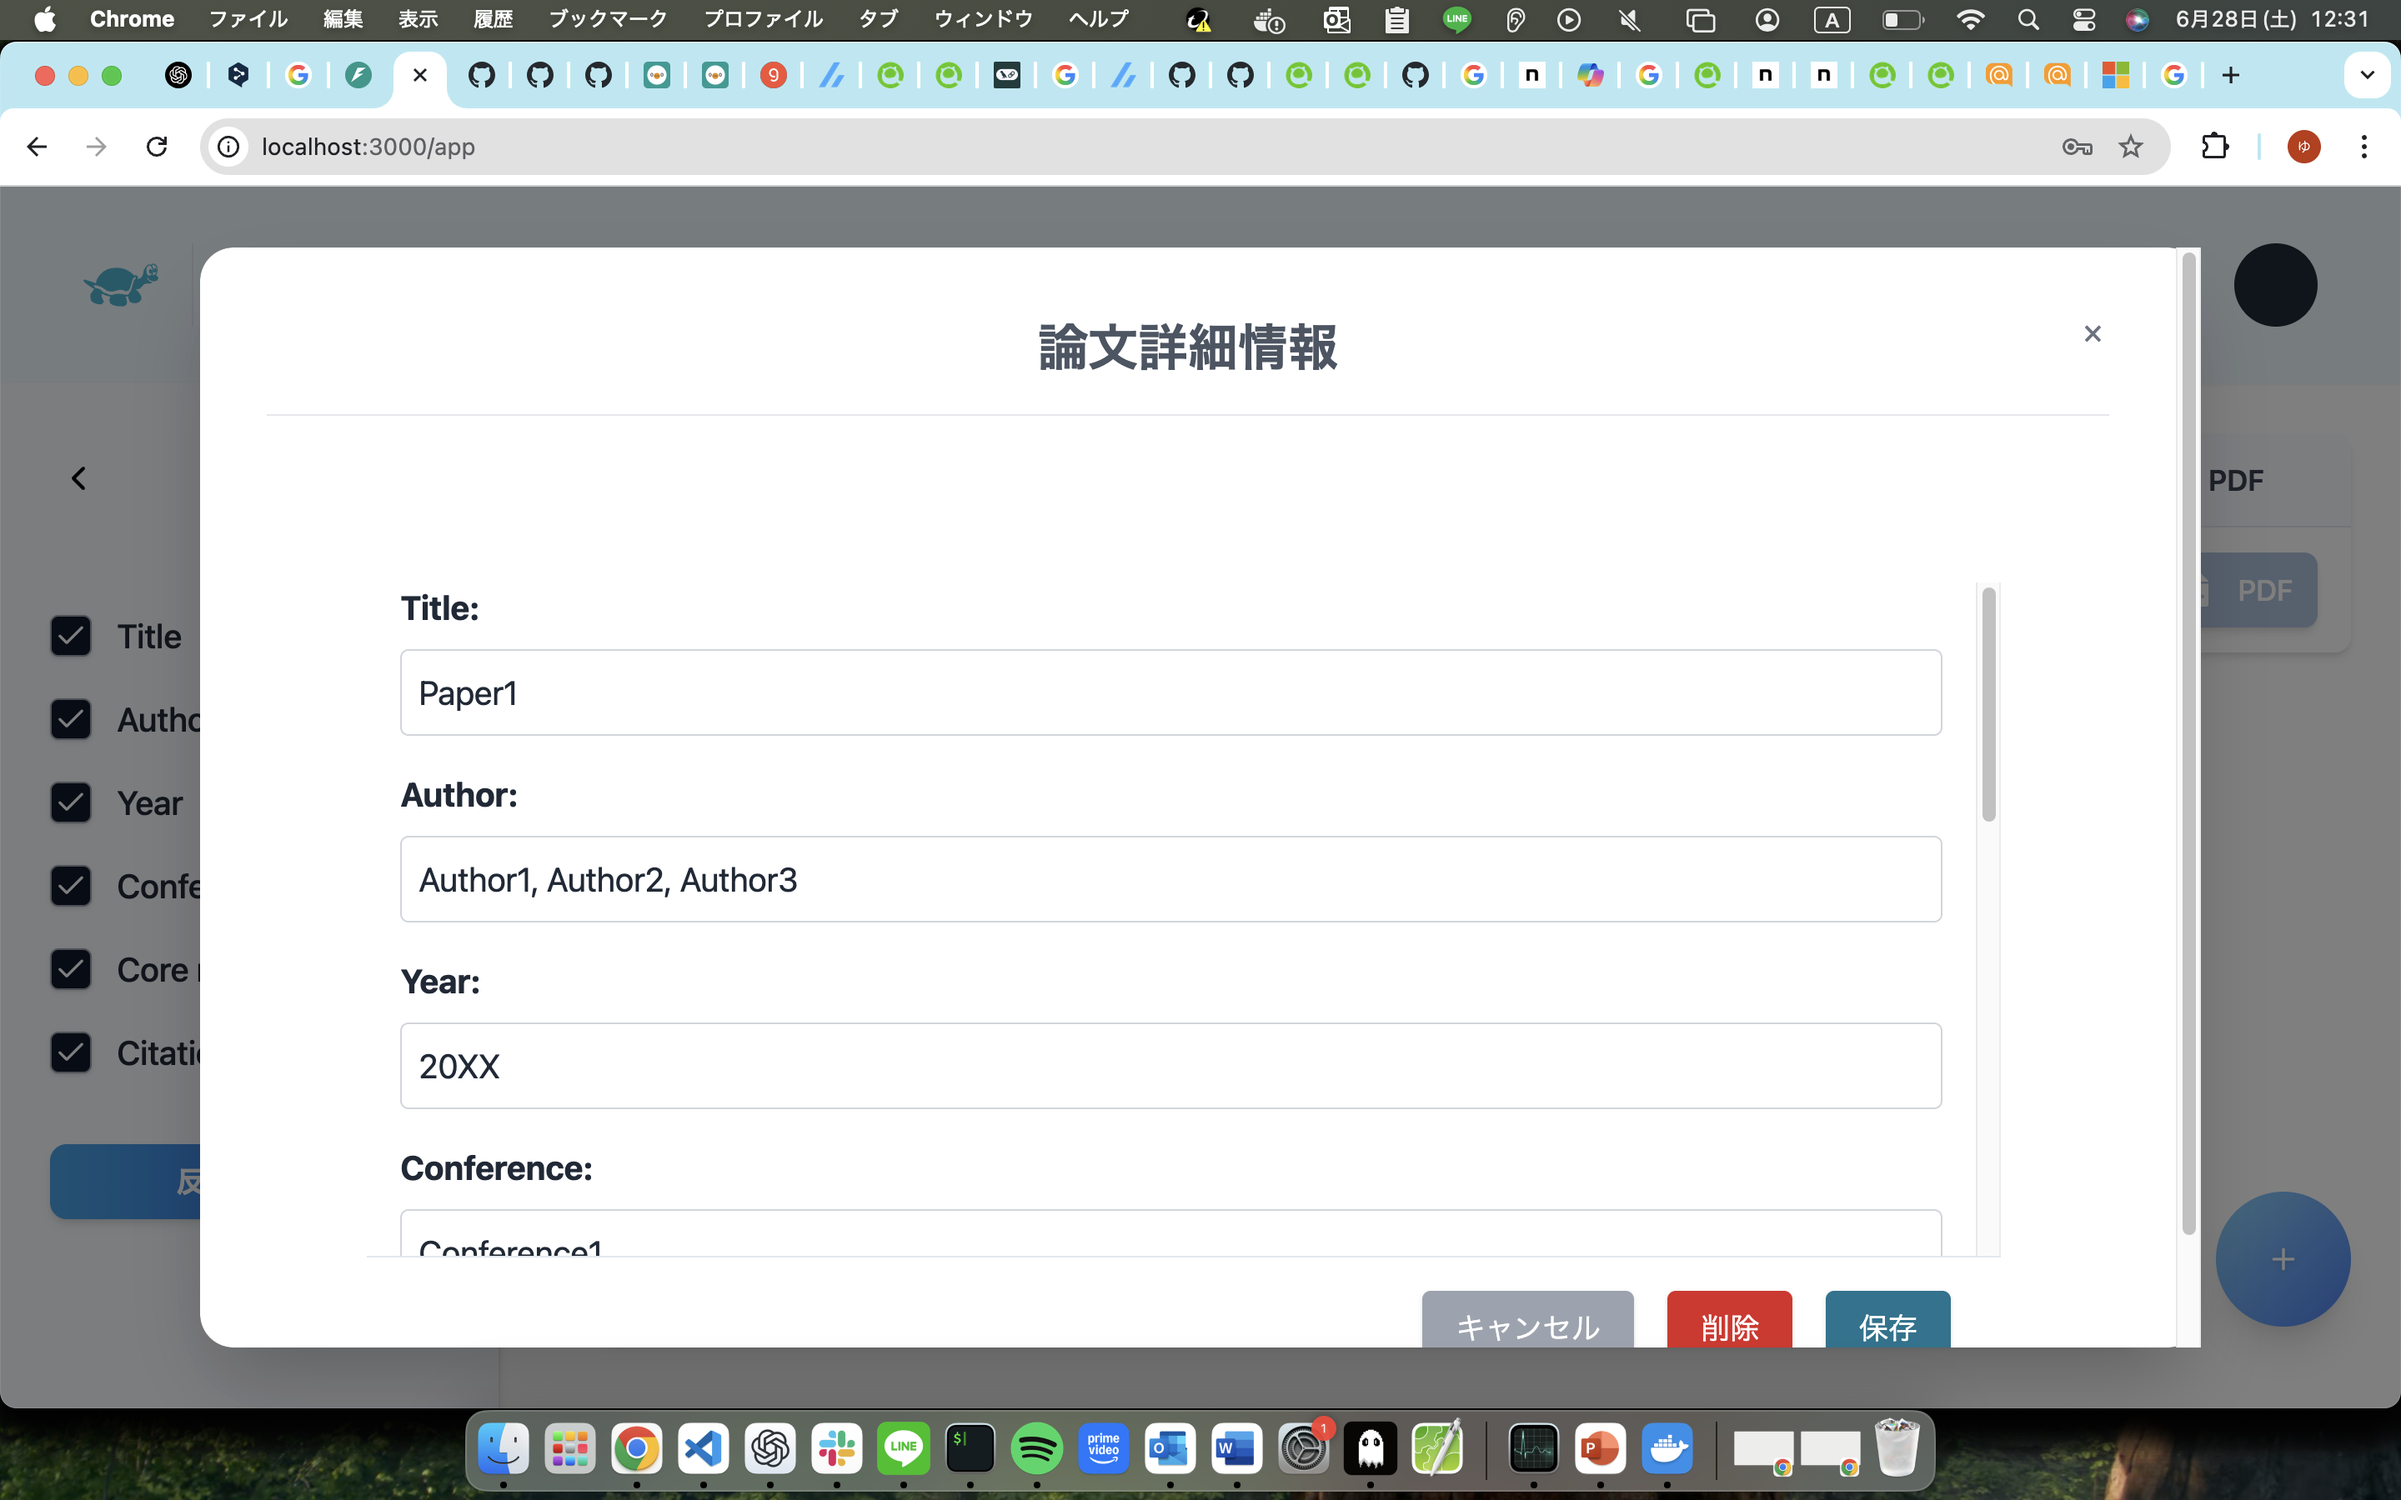
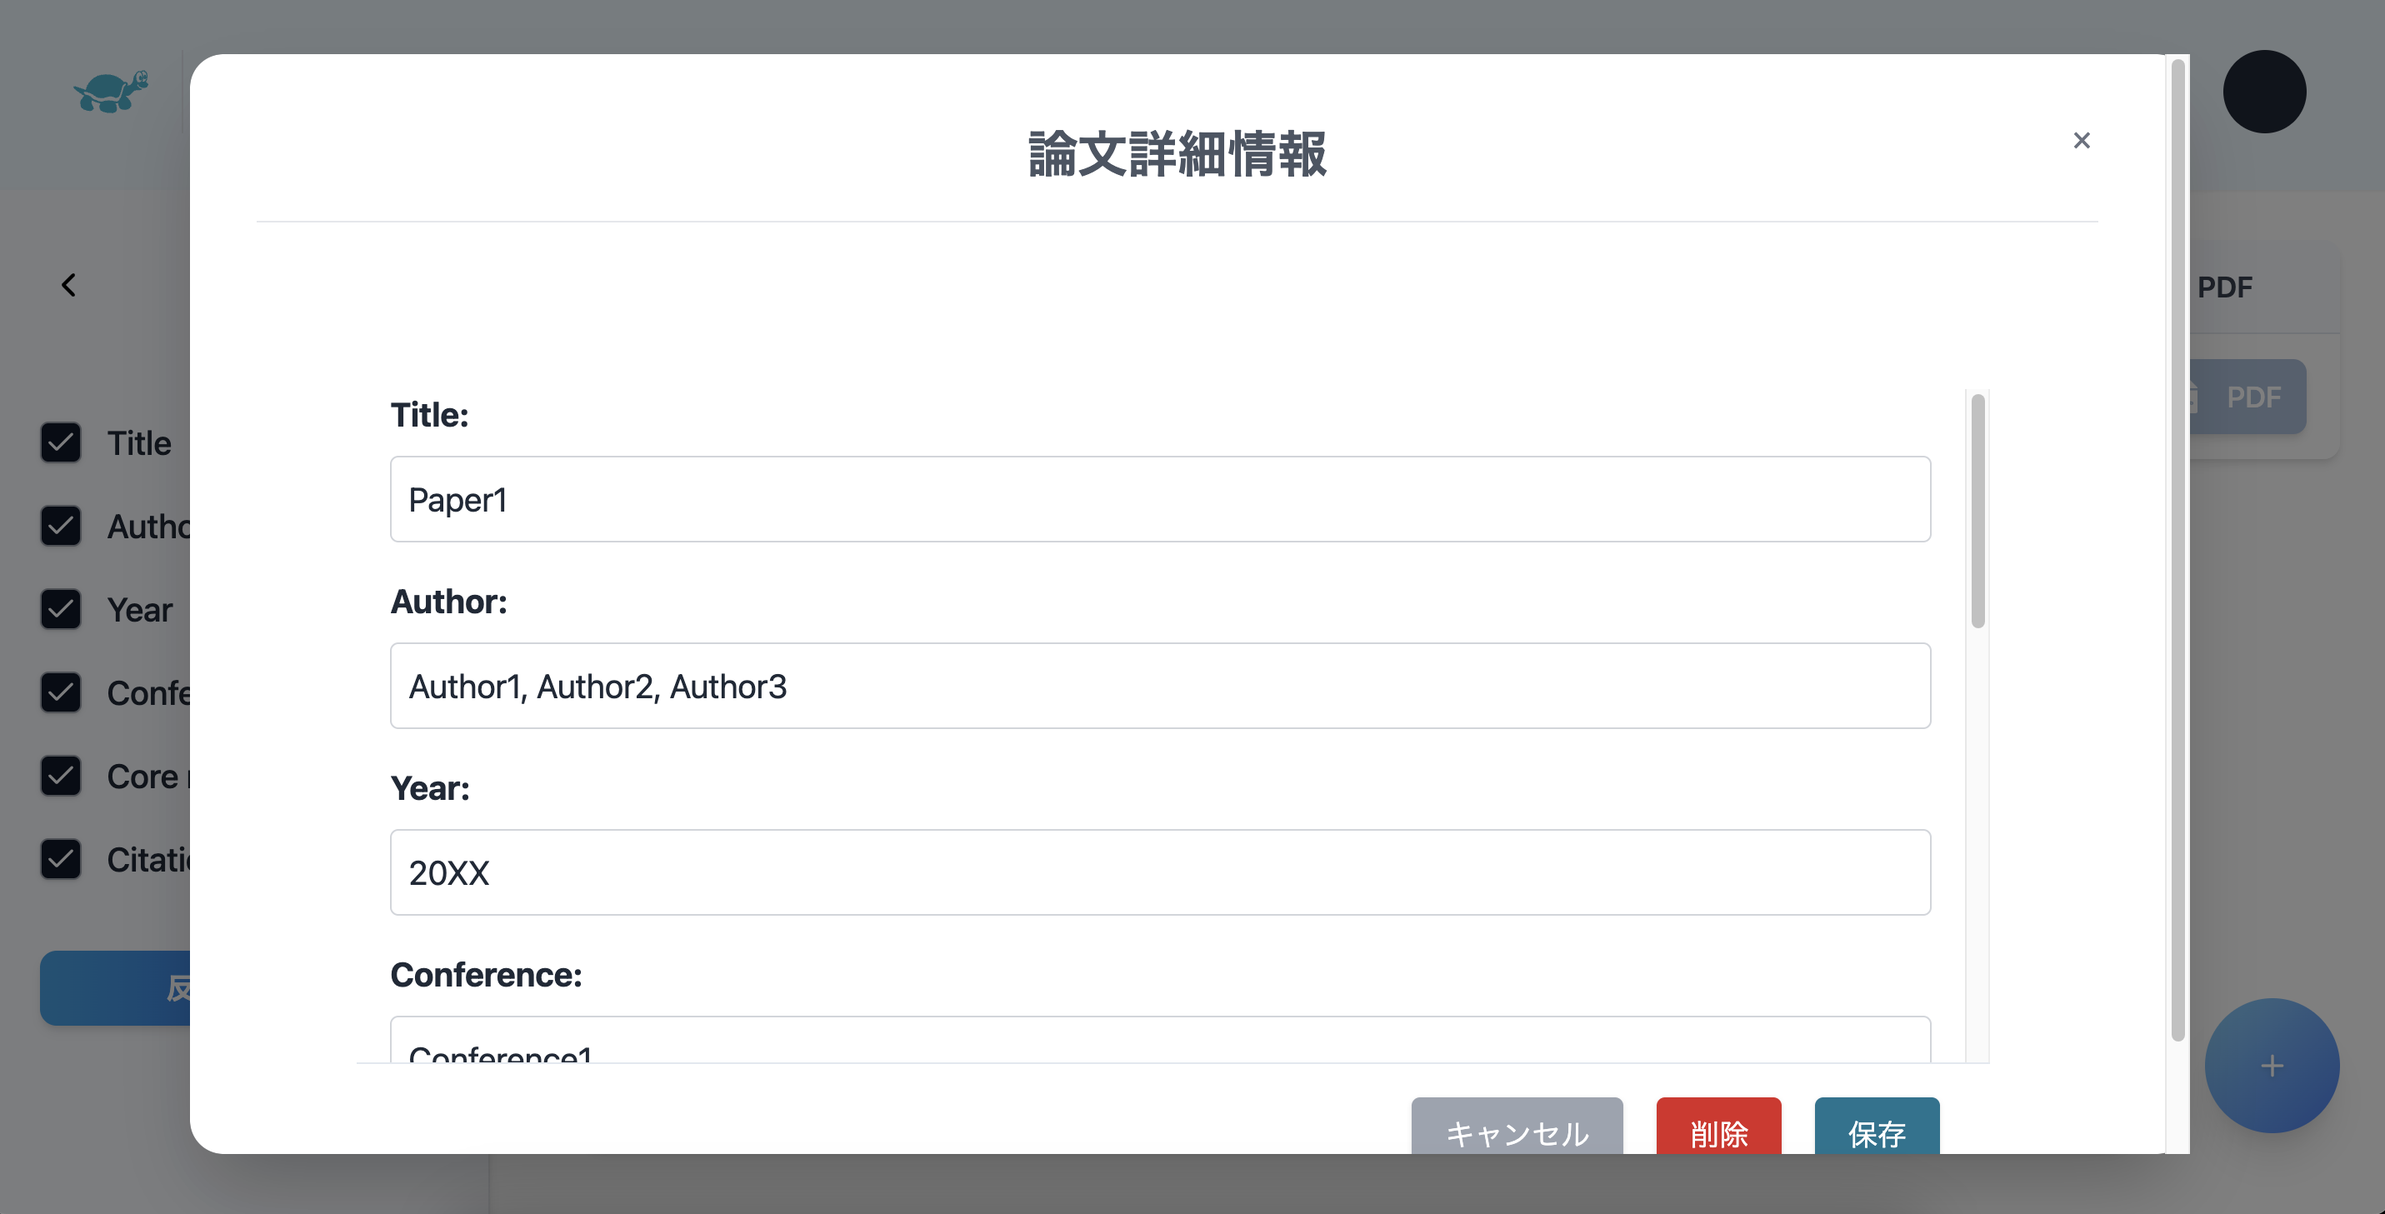
画像サイズを修正

diff --git a/README.md b/README.md
@@ -81,7 +81,7 @@ Swagger API -> http://localhost:8000/docs
 
 | 類似論文検索機能                                       | 設定画面                                                     |
 | ------------------------------------------------------ | ------------------------------------------------------------ |
-| <img src="./docs/image/search.png" width="3000"/>           | ![設定画面](./docs/image/setting.png)                        |
+| <img src="./docs/image/search.png" width="4000"/>           | ![設定画面](./docs/image/setting.png)                        |
 | 事業者情報と備考欄情報のマスタ登録機能を実装しました。 | アカウント情報の編集や，アカウント削除を行うことができます． |
 
 <!-- ## 工夫した点
